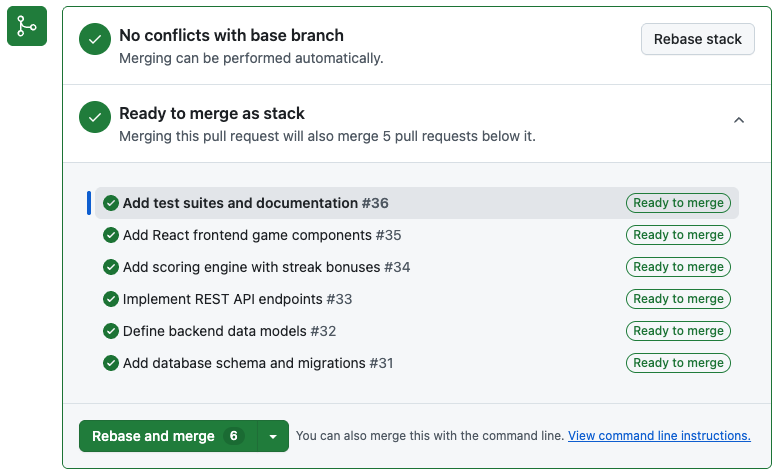
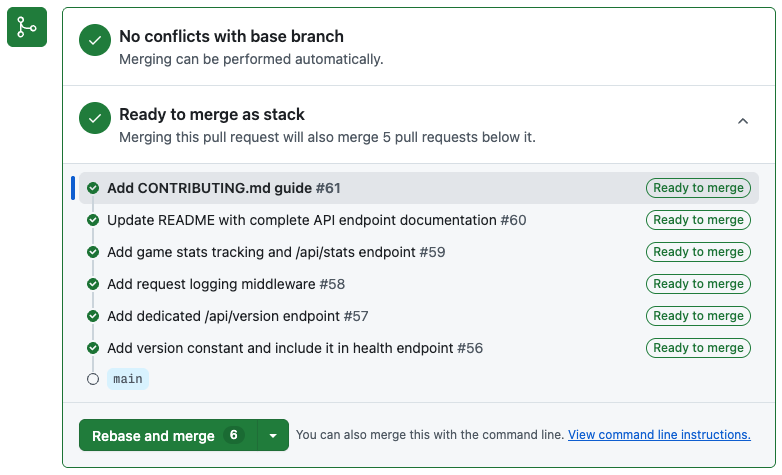
docs updates

diff --git a/README.md b/README.md
@@ -69,7 +69,7 @@ Stack metadata is stored in `.git/gh-stack` (a JSON file, not committed to the r
 Initialize a new stack in the current repository.
 
 ```
-gh stack init [branches...] [flags]
+gh stack init [flags] [branches...]
 ```
 
 Creates an entry in `.git/gh-stack` to track stack state. In interactive mode (no arguments), prompts you to name branches and offers to use the current branch as the first layer. In interactive mode, you'll also be prompted to set an optional branch prefix (unless adopting existing branches). When a prefix is set, branch names you enter are automatically prefixed. When explicit branch names are given, creates any that don't already exist (branching from the trunk). The trunk defaults to the repository's default branch unless overridden with `--base`.
@@ -115,7 +115,7 @@ gh stack init -p feat --numbered
 Add a new branch on top of the current stack.
 
 ```
-gh stack add [branch] [flags]
+gh stack add [flags] [branch]
 ```
 
 Creates a new branch at the current HEAD, adds it to the top of the stack, and checks it out. Must be run while on the topmost branch of a stack. If no branch name is given, prompts for one.
@@ -190,7 +190,7 @@ gh stack checkout
 Pull from remote and do a cascading rebase across the stack.
 
 ```
-gh stack rebase [branch] [flags]
+gh stack rebase [flags] [branch]
 ```
 
 Fetches the latest changes from `origin`, then ensures each branch in the stack has the tip of the previous layer in its commit history. Rebases branches in order from trunk upward. If a branch's PR has been squash-merged, the rebase automatically switches to `--onto` mode to correctly replay commits on top of the merge target.
@@ -331,7 +331,7 @@ gh stack view --json
 Remove a stack from local tracking and delete it on GitHub. Also available as `gh stack delete`.
 
 ```
-gh stack unstack [branch] [flags]
+gh stack unstack [flags] [branch]
 ```
 
 If no branch is specified, uses the current branch to find the stack. Deletes the stack on GitHub first, then removes local tracking. Use `--local` to only remove the local tracking entry.
@@ -414,7 +414,7 @@ gh stack feedback "Support for reordering branches"
 Create a short command alias so you can type less.
 
 ```
-gh stack alias [name] [flags]
+gh stack alias [flags] [name]
 ```
 
 Installs a small wrapper script into `~/.local/bin/` that forwards all arguments to `gh stack`. The default alias name is `gs`, but you can choose any name by passing it as an argument. After setup, you can run `gs push` instead of `gh stack push`.

diff --git a/docs/src/content/docs/guides/workflows.md b/docs/src/content/docs/guides/workflows.md
@@ -33,7 +33,7 @@ gh stack rebase
 # 7. Push the updated branches
 gh stack push
 
-# 8. When the first PR is merged, sync the stack
+# 8. Sync upstream changes as PRs get merged
 gh stack sync
 ```
 
@@ -42,34 +42,37 @@ gh stack sync
 For speed, use a branch prefix with `--numbered` and the `-Am` flags to fold staging, committing, and branch creation into a single command. Branch names are auto-generated as `prefix/01`, `prefix/02`, etc.
 
 ```sh
+# Alias `gh stack` as `gs` for easier use
+gh stack alias
+
 # 1. Start a stack with numbered branches
-gh stack init -p feat --numbered
+gs init -p feat --numbered
 #    → creates feat/01 and checks it out
 
 # 2. Write code for the first layer
 # ... write code ...
 
 # 3. Stage and commit on the current branch
-gh stack add -Am "Auth middleware"
+gs add -Am "Auth middleware"
 #    → feat/01 has no commits yet, so the commit lands here
 
 # 4. Write code for the next layer
 # ... write code ...
 
 # 5. Create the next branch and commit
-gh stack add -Am "API routes"
+gs add -Am "API routes"
 #    → feat/01 already has commits, so feat/02 is created
 
 # 6. Keep going
 # ... write code ...
-gh stack add -Am "Frontend components"
+gs add -Am "Frontend components"
 #    → creates feat/03
 
 # 7. Push everything and create PRs
-gh stack submit
+gs submit
 ```
 
-Each `gh stack add -Am "..."` stages all files, commits, and (if the current branch already has commits) creates a new branch — no separate `git add` or `git commit` needed.
+Each `gs add -Am "..."` stages all files, commits, and (if the current branch already has commits) creates a new branch — no separate `git add` or `git commit` needed.
 
 ## Making Mid-Stack Changes
 

diff --git a/skills/gh-stack/SKILL.md b/skills/gh-stack/SKILL.md
@@ -381,7 +381,7 @@ gh stack init --base main --adopt new-branch-1 new-branch-2 new-branch-3
 Creates a new stack. Provide branch names as positional arguments.
 
 ```
-gh stack init [branches...] [flags]
+gh stack init [flags] [branches...]
 ```
 
 ```bash
@@ -424,7 +424,7 @@ gh stack init --adopt branch-a branch-b branch-c
 Add a new branch on top of the current stack. Must be run while on the topmost branch (or the trunk if the stack has no branches yet). Always provide an explicit branch name.
 
 ```
-gh stack add [branch] [flags]
+gh stack add [flags] [branch]
 ```
 
 **Recommended workflow — create the branch, then use standard git:**
@@ -578,7 +578,7 @@ gh stack sync [flags]
 Pull from remote and cascade-rebase stack branches. Use this when `sync` reports a conflict or when you need finer control (e.g., rebase only part of the stack).
 
 ```
-gh stack rebase [branch] [flags]
+gh stack rebase [flags] [branch]
 ```
 
 ```bash
@@ -730,7 +730,7 @@ When a branch name is provided, the command resolves it against locally tracked 
 Tear down a stack so you can restructure it — remove a branch, reorder branches, rename branches, or make other large changes. After unstacking, use `gh stack init` to re-create the stack with the desired structure.
 
 ```
-gh stack unstack [branch] [flags]
+gh stack unstack [flags] [branch]
 ```
 
 ```bash

diff --git a/docs/src/content/docs/introduction/overview.md b/docs/src/content/docs/introduction/overview.md
@@ -3,7 +3,7 @@ title: Overview
 description: What stacked pull requests are, why they matter, and how GitHub supports them natively.
 ---
 
-## The Challenge
+## Why Stacks?
 
 For developers who want to break large changes into smaller, dependent parts, the experience can be painful:
 
@@ -89,8 +89,9 @@ While the PR UI provides the review and merge experience, the `gh stack` CLI han
 - **Navigating the stack** — `gh stack up`, `down`, `top`, and `bottom` let you move between layers without remembering branch names.
 - **Syncing everything** — `gh stack sync` fetches, rebases, pushes, and updates PR state in one command.
 - **Tearing down stacks** — `gh stack unstack` removes a stack from GitHub and local tracking if you need to restructure it.
+- **Checking out a stack** — `gh stack checkout <pr-number>` pulls down a stack, with all its branches, from GitHub to your local machine.
 
-The CLI is not required to use Stacked PRs — the underlying git operations are standard. But it makes the workflow dramatically simpler.
+The CLI is not required to use Stacked PRs — the underlying git operations are standard. But it makes the workflow simpler, and you can create Stacked PRs from CLI instead of the UI.
 
 ## Thinking About Stack Structure
 

diff --git a/docs/src/content/docs/faq.md b/docs/src/content/docs/faq.md
@@ -158,7 +158,7 @@ Yes, you can continue to use your tool of choice (e.g. jj, Sapling, ghstack, git
 
 Stacked PRs on GitHub are based on the standard pull request model — any tool that creates PRs with the correct base branches can work with them. The `gh stack` CLI is purpose-built for the GitHub experience, but other tools that manage branch chains should be compatible.
 
-You can also use the GitHub CLI in conjunction with other tools to simply create a stack of PRs:
+You can also use the GitHub CLI in conjunction with other tools to open your PRs as a stack:
 
 ```bash
 # Create a stack of branches locally using jj

diff --git a/docs/src/content/docs/guides/ui.md b/docs/src/content/docs/guides/ui.md
@@ -75,7 +75,7 @@ Before a PR in the stack can be merged, the following conditions must be met:
 - **The stack must be fully rebased** with a linear history
 - **The current PR itself** must meet all branch protection requirements for the stack base
 
-![Merge box showing failing stack requirements](../../../assets/screenshots/merge-box-failing-stack-requirements.png)
+![Merge box for a stacked pull request](../../../assets/screenshots/stack-merge-box.png)
 
 ## Unstacking
 
